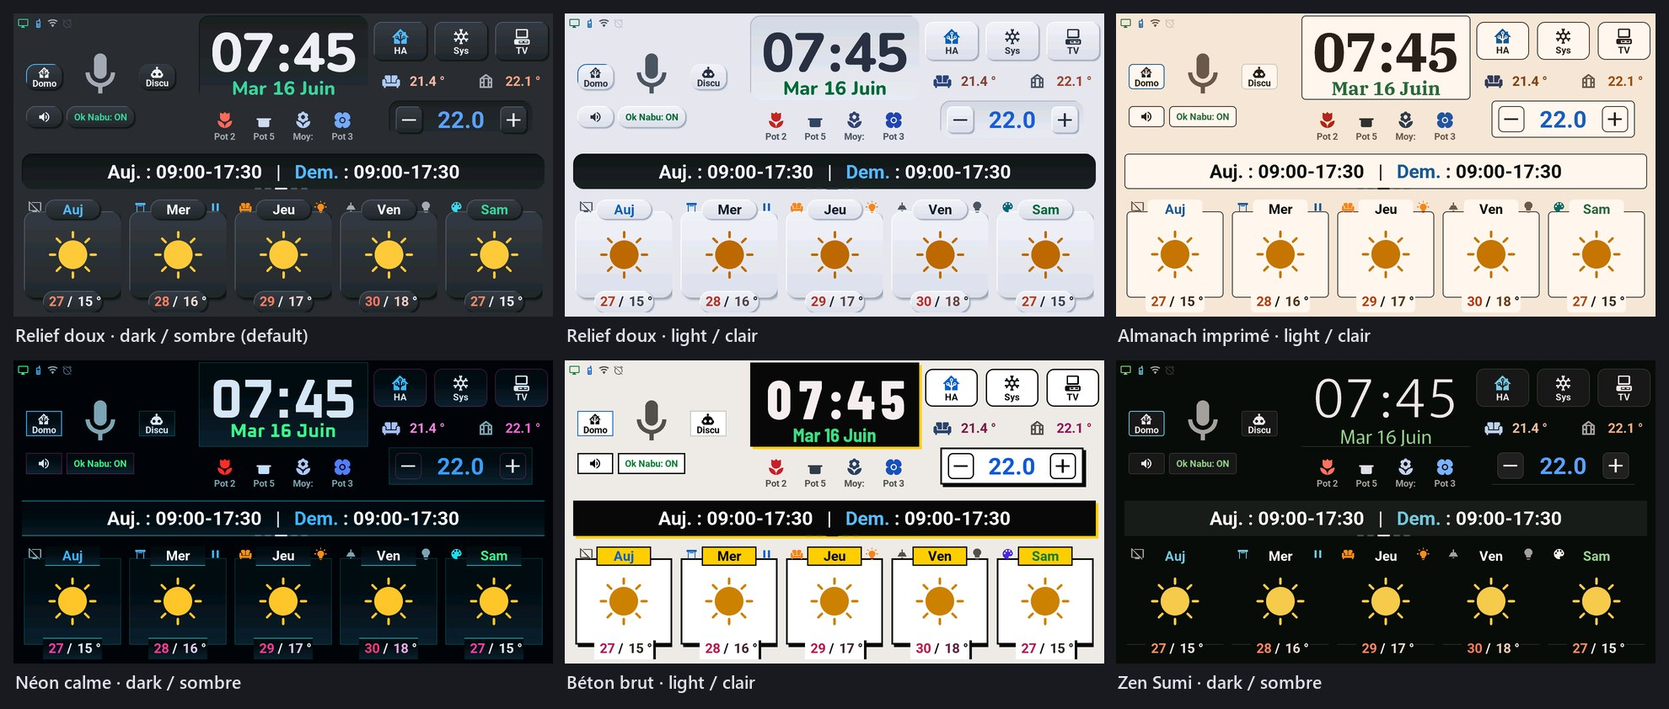
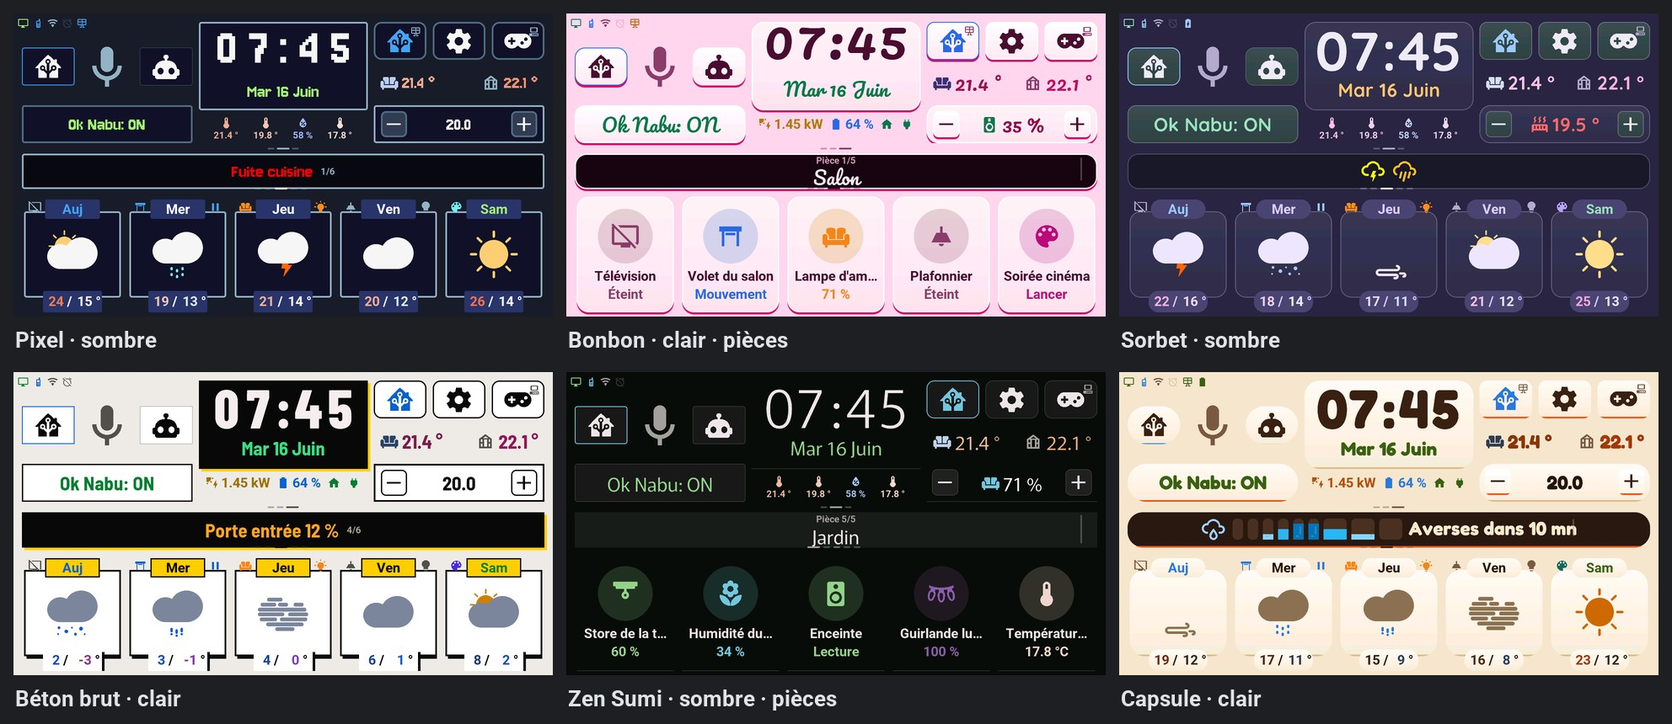
docs: photo de l'auteur et rendus du firmware dans le README et le site, HACS dans le dépannage (#377)
* docs(images): photo de l'auteur et rendus du firmware dans le README et le site

- En-tête du README (accueil du site), haut de « Écrans » et image de partage du site :
  la photo de la tablette prise le 07/10/2026, sans métadonnées.
- Galerie du README : 18 écrans du rendu hors tablette, chacun dans un thème, en
  anglais dans la partie anglaise et en français dans la française
  (docs/images/galerie/), à la place des 12 photos de juillet.
- Tour animé refait depuis le rendu de main, un par langue (tab5_ui_tour_en/fr.webp).
- Planche de six thèmes (deux en mode pièces, quatre alertes), EN et FR, dans le
  README, « Écrans » et « Réglages ».
- « Écrans » : photos de juillet remplacées par les rendus de la notice ; les trois
  jeux montrés aussi en anglais. Les anciennes photos restent pour le kit de presse.

* docs(hacs): « Dépôt introuvable » et boîte vide dans le dépannage, CHANGELOG

Nouvel incident (EN/FR) : HACS vérifie le dépôt sur sa dernière release complète
(refusé avant la 3.7.0, essayé le 07/10 avec la 3.6.0) ; au premier passage par le
lien, la boîte de HACS peut s'afficher sans texte (HACS 2.0.5) : recharger. Renvoi
depuis l'étape 2 de « Avec HACS ». Entrée du CHANGELOG pour les images et HACS.

---------

diff --git a/README.md b/README.md
@@ -23,7 +23,7 @@
 
 **A Home Assistant wall screen that runs natively on the M5Stack Tab5 (ESP32-P4).** No browser, no polling: Home Assistant pushes what changed, and the screen redraws only that, in C++ with LVGL. Local "Okay Nabu" wake word, 15-day forecast, climate, lights, plants, solar energy, TV remote, alarm clock — and 8 offline games, in seven languages. Twenty-one themes, light or dark, chosen from Home Assistant. It is my everyday screen, shared in case it is useful to someone.
 
-![The author's M5Stack Tab5 on a stand, showing a Home Assistant screen with the time, a climate setpoint, work hours and a 5-day weather forecast](docs/images/tab5_hero_4x3.jpg)
+![The author's M5Stack Tab5 held in one hand on its stand, screen in French: the time, two temperatures, a climate setpoint, the work-hours banner and a 5-day forecast with thunderstorm, rain and sun](docs/images/tab5_hero_4x3.jpg)
 
 **[Install from the browser](https://axellum.github.io/M5-Tab5-ESPHome-LVGL/install/)** · **[Installation guide](docs/installation/README.md)** · **[User manual](docs/notice/README.md)** · **[Try it without Home Assistant](docs/demo_mode.md)** · **[Discussions](https://github.com/Axellum/M5-Tab5-ESPHome-LVGL/discussions)**
 
@@ -110,13 +110,13 @@ Just want to see it running first? The [demo mode](docs/demo_mode.md) pushes dem
 
 ## See it in action
 
-**[▶ Demo video on YouTube](https://www.youtube.com/watch?v=ygNhgtMffu4)** (voice, touch, TV remote, climate — provisional cut, July 2026), and an animated tour of the screens:
+**[▶ Demo video on YouTube](https://www.youtube.com/watch?v=ygNhgtMffu4)** (voice, touch, TV remote, climate — provisional cut, July 2026), and an animated tour of the screens in the default theme, drawn by the firmware itself on a PC with demo data:
 
-![Animated tour of the M5Stack Tab5 Home Assistant screen: home, devices, plants, climate, lights, TV remote and console](docs/images/tab5_ui_tour_hq.webp)
+![Animated tour of the M5Stack Tab5 Home Assistant screen: home, a room's devices, the whole house, the quick-action wheel, lights, climate, plants, solar energy, calendar, TV remote and console](docs/images/tab5_ui_tour_en.webp)
 
-**Twenty-one themes**, each light or dark: colours, shapes (radius, borders, shadows) and the fonts of the clock, the date and the titles. Six of them, drawn by the firmware itself on a PC, with demo data:
+**Twenty-one themes**, each light or dark: colours, shapes (radius, borders, shadows) and the fonts of the clock, the date and the titles. Six of them on the home screen, drawn by the firmware itself on a PC with demo data: two show a room's devices, the four others a different alert on the central card.
 
-![Six themes of the M5Stack Tab5 screen drawn by the firmware: Relief doux in dark and light, Almanach imprimé, Néon calme, Béton brut and Zen Sumi](docs/images/tab5_themes.jpg)
+![Six themes of the M5Stack Tab5 home screen drawn by the firmware: Pixel dark with a kitchen leak alert, Bonbon light with the living room's devices, Sorbet dark with a weather warning, Béton brut light with a low battery alert, Zen Sumi dark with the garden's devices and Capsule light with rain in 10 minutes](docs/images/tab5_themes_en.jpg)
 
 **Solar energy** (optional): solar, home, grid and home battery right now, and the production of the last 30 days, from the sensors picked in the blueprint ([solar energy](docs/installation/adapt-to-your-home.md#solar-energy-optional)). Render with demo data; not tried with a real solar installation yet.
 
@@ -126,31 +126,43 @@ Just want to see it running first? The [demo mode](docs/demo_mode.md) pushes dem
 
 ![Tab5 view of the Home Assistant dashboard: brightness, volume and screen of the tablet, alarm clock, appointments and voice assistant](docs/images/ha_tableau_tab5.png)
 
-**On the tablet** — photos of the author's tablet (July 2026, French interface):
+**Every screen, each in a different theme** — drawn by the firmware itself on a PC, with demo data; the games stay dark whatever the theme:
 
-| Device buttons, one tap each | Plant sensors |
+| Home: rain in the next hour (Bento, light) | The whole house (Relief doux, light) |
 |:-:|:-:|
-| <img src="docs/images/tab5_photo_domo.jpg" width="400" loading="lazy" alt="M5Stack Tab5 Home Assistant screen with buttons for a desk PC, a roller shutter, bedroom and living-room lights and LEDs"> | <img src="docs/images/tab5_photo_plants.jpg" width="400" loading="lazy" alt="M5Stack Tab5 popup with five BLE plant sensors: soil moisture, fertility, light, temperature and battery"> |
+| <img src="docs/images/galerie/accueil-pluie-en.webp" width="400" loading="lazy" alt="M5Stack Tab5 home screen in the Bento light theme: the rain bars of the next hour and Moderate rain in 10 min on the central card, a rainy 5-day forecast"> | <img src="docs/images/galerie/maison-en.webp" width="400" loading="lazy" alt="House popup of the M5Stack Tab5: five rooms in columns, each device with its state, and a Lights off button"> |
 
-| Climate | Lights |
+| Quick-action wheel (Néon calme, dark) | Lights (Bonbon, light) |
 |:-:|:-:|
-| <img src="docs/images/tab5_photo_climate_popup_v2.jpg" width="400" loading="lazy" alt="M5Stack Tab5 climate popup with modes, a thermostat arc set to 23 °C, presets and airflow options"> | <img src="docs/images/tab5_photo_light_popup_v2.jpg" width="400" loading="lazy" alt="M5Stack Tab5 light popup with a light selector, a brightness arc at 100 % and colour swatches"> |
+| <img src="docs/images/galerie/roue-en.webp" width="400" loading="lazy" alt="Quick-action wheel of the M5Stack Tab5 opened by a long press on a lamp: brightness steps, power and more around the finger"> | <img src="docs/images/galerie/lumieres-en.webp" width="400" loading="lazy" alt="Light popup of the M5Stack Tab5: the room's lights, a brightness arc with shortcuts, 3 whites and 12 colours"> |
 
-| TV remote | Diagnostics console |
+| Climate (Platine et or, dark) | Shutters (Terre cuite, light) |
 |:-:|:-:|
-| <img src="docs/images/tab5_photo_tv_remote.jpg" width="400" loading="lazy" alt="M5Stack Tab5 showing a Samsung TV remote with power, source, direction pad, volume and playback buttons"> | <img src="docs/images/tab5_photo_console_v2.jpg" width="400" loading="lazy" alt="M5Stack Tab5 diagnostics console with memory, Wi-Fi, uptime, CPU temperature and Home Assistant actions"> |
+| <img src="docs/images/galerie/climatisation-en.webp" width="400" loading="lazy" alt="Climate popup of the M5Stack Tab5: modes, a thermostat arc set to 20 °C, presets, fan speed and airflow"> | <img src="docs/images/galerie/volet-en.webp" width="400" loading="lazy" alt="Shutter popup of the M5Stack Tab5: the shutter drawn at 45 % while it moves, with Open, Stop and Close"> |
 
-| Monthly calendar | Voice assistant |
+| Plant sensors (Sorbet, light) | Solar energy (Ultraviolet, dark) |
 |:-:|:-:|
-| <img src="docs/images/tab5_photo_calendar.jpg" width="400" loading="lazy" alt="M5Stack Tab5 monthly calendar with work hours, public holidays, school holidays and appointments"> | <img src="docs/images/tab5_photo_assistant_popup.jpg" width="400" loading="lazy" alt="M5Stack Tab5 voice assistant popup showing the spoken request and a formatted reply"> |
+| <img src="docs/images/galerie/plantes-en.webp" width="400" loading="lazy" alt="Plants popup of the M5Stack Tab5: five pots with soil moisture, fertility, light, temperature and battery, one of them needs water"> | <img src="docs/images/galerie/energie-en.webp" width="400" loading="lazy" alt="Energy popup of the M5Stack Tab5: solar, home, grid and battery cards, and the solar production of the last 30 days as bars"> |
 
-| Arcade: the game menu | Roi Noir: chess with an engine on the tablet |
+| Temperature history (Almanach imprimé, light) | Monthly calendar (Zen Sumi, dark) |
 |:-:|:-:|
-| <img src="docs/images/tab5_photo_arcade_selector.jpg" width="400" loading="lazy" alt="M5Stack Tab5 arcade menu with eight offline games drawn with LVGL"> | <img src="docs/images/tab5_photo_chess.jpg" width="400" loading="lazy" alt="Chess game Roi Noir running on the M5Stack Tab5 ESP32-P4 with its embedded engine"> |
+| <img src="docs/images/galerie/temperature-en.webp" width="400" loading="lazy" alt="Temperature popup of the M5Stack Tab5: now, minimum, maximum and outdoor forecast, and the greenhouse curve over 7 days with the forecast"> | <img src="docs/images/galerie/calendrier-en.webp" width="400" loading="lazy" alt="Monthly calendar of the M5Stack Tab5 with work hours, a public holiday, school holidays, appointments and birthdays"> |
+
+| Alarm clock (Graphite, dark) | Voice assistant (Obsidienne, dark) |
+|:-:|:-:|
+| <img src="docs/images/galerie/reveil-en.webp" width="400" loading="lazy" alt="Alarm clock popup of the M5Stack Tab5: a fixed time, the days, the mode, the ringtone and its volume, snooze and the next appointment"> | <img src="docs/images/galerie/assistant-en.webp" width="400" loading="lazy" alt="Voice assistant popup of the M5Stack Tab5: its settings, the request and a formatted reply with a list and a table"> |
+
+| TV remote (Signalisation, light) | Settings (Capsule, light) |
+|:-:|:-:|
+| <img src="docs/images/galerie/telecommande-tv-en.webp" width="400" loading="lazy" alt="TV remote of the M5Stack Tab5: power, source, menu, a direction pad, volume, playback and app shortcuts"> | <img src="docs/images/galerie/reglages-en.webp" width="400" loading="lazy" alt="Settings popup of the M5Stack Tab5: brightness, auto screen off, wake options, theme, light or dark, night mode and language"> |
+
+| Arcade: the game menu (Pixel, dark) | Roi Noir: chess with an engine on the tablet |
+|:-:|:-:|
+| <img src="docs/images/galerie/arcade-en.webp" width="400" loading="lazy" alt="Arcade menu of the M5Stack Tab5 with eight offline games drawn with LVGL"> | <img src="docs/images/galerie/roi-noir-en.webp" width="400" loading="lazy" alt="Chess game Roi Noir on the M5Stack Tab5 ESP32-P4, with its embedded engine"> |
 
 | Coureur d'Or: Lode Runner style | Arcanoïde: a breakout played by tilting |
 |:-:|:-:|
-| <img src="docs/images/tab5_photo_lode_runner.jpg" width="400" loading="lazy" alt="Coureur d'Or, a Lode Runner style platform game, running on the M5Stack Tab5"> | <img src="docs/images/tab5_photo_arkanoid.jpg" width="400" loading="lazy" alt="Arcanoïde, a breakout game on the M5Stack Tab5, played by tilting the tablet"> |
+| <img src="docs/images/galerie/coureur-dor-en.webp" width="400" loading="lazy" alt="Coureur d'Or, a Lode Runner style platform game, on the M5Stack Tab5"> | <img src="docs/images/galerie/arcanoide-en.webp" width="400" loading="lazy" alt="Arcanoïde, a breakout game on the M5Stack Tab5, played by tilting the tablet"> |
 
 The games are experimental, first-pass code written by AI to see what LVGL and C++ can do on an ESP32-P4: they work, they are not polished ([the eight consoles](docs/arcade.md), in French).
 
@@ -197,7 +209,7 @@ If something in the code is weird, it might be an AI quirk. If something works s
 
 **Un écran mural Home Assistant qui tourne nativement sur le M5Stack Tab5 (ESP32-P4).** Pas de navigateur, pas de polling : Home Assistant pousse ce qui a changé, et l'écran ne redessine que ça, en C++ avec LVGL. Mot d'activation « Okay Nabu » en local, prévisions à 15 jours, clim, lumières, plantes, énergie solaire, télécommande TV, réveil — et 8 jeux hors ligne, en sept langues. Vingt et un thèmes, clairs ou sombres, au choix depuis Home Assistant. C'est mon écran de tous les jours, partagé au cas où il serve à quelqu'un.
 
-![La M5Stack Tab5 de l'auteur sur son support, avec un écran Home Assistant : l'heure, la consigne de la clim, les horaires de travail et les prévisions à 5 jours](docs/images/tab5_hero_4x3.jpg)
+![La M5Stack Tab5 de l'auteur tenue à la main sur son socle : l'heure, deux températures, la consigne de la clim, le bandeau des horaires de travail et les prévisions à 5 jours avec orage, pluie et soleil](docs/images/tab5_hero_4x3.jpg)
 
 **[Installer depuis le navigateur](https://axellum.github.io/M5-Tab5-ESPHome-LVGL/install/)** · **[Guide d'installation](docs/installation/README.md#version-française)** · **[Notice d'utilisation](docs/notice/README.md#version-française)** · **[Essayer sans Home Assistant](docs/demo_mode.md#version-française)** · **[Discussions](https://github.com/Axellum/M5-Tab5-ESPHome-LVGL/discussions)**
 
@@ -284,13 +296,13 @@ Envie de le voir tourner d'abord ? Le [mode démo](docs/demo_mode.md#version-fra
 
 ## En images
 
-**[▶ Vidéo de démo sur YouTube](https://www.youtube.com/watch?v=ygNhgtMffu4)** (voix, tactile, télécommande TV, clim — version provisoire, juillet 2026), et un tour animé des écrans :
+**[▶ Vidéo de démo sur YouTube](https://www.youtube.com/watch?v=ygNhgtMffu4)** (voix, tactile, télécommande TV, clim — version provisoire, juillet 2026), et un tour animé des écrans dans le thème par défaut, dessinés par le firmware lui-même sur un PC, avec des données de démonstration :
 
-![Tour animé de l'écran Home Assistant de la M5Stack Tab5 : accueil, appareils, plantes, clim, lumières, télécommande TV et console](docs/images/tab5_ui_tour_hq.webp)
+![Tour animé de l'écran Home Assistant de la M5Stack Tab5 : accueil, appareils d'une pièce, toute la maison, roue d'actions, lumières, clim, plantes, énergie solaire, calendrier, télécommande TV et console](docs/images/tab5_ui_tour_fr.webp)
 
-**Vingt et un thèmes**, chacun clair ou sombre : couleurs, formes (rayons, bordures, ombres) et polices de l'heure, de la date et des titres. Six d'entre eux, dessinés par le firmware lui-même sur un PC, avec des données de démonstration :
+**Vingt et un thèmes**, chacun clair ou sombre : couleurs, formes (rayons, bordures, ombres) et polices de l'heure, de la date et des titres. Six d'entre eux sur l'accueil, dessinés par le firmware lui-même sur un PC, avec des données de démonstration : deux montrent les appareils d'une pièce, les quatre autres une alerte différente sur la carte centrale.
 
-![Six thèmes de l'écran de la M5Stack Tab5 dessinés par le firmware : Relief doux en sombre et en clair, Almanach imprimé, Néon calme, Béton brut et Zen Sumi](docs/images/tab5_themes.jpg)
+![Six thèmes de l'accueil de la M5Stack Tab5 dessinés par le firmware : Pixel sombre avec une alerte de fuite en cuisine, Bonbon clair avec les appareils du salon, Sorbet sombre avec une vigilance météo, Béton brut clair avec une alerte de pile faible, Zen Sumi sombre avec les appareils du jardin et Capsule clair avec de la pluie dans 10 minutes](docs/images/tab5_themes.jpg)
 
 **Énergie solaire** (facultatif) : solaire, maison, réseau et batterie de la maison en direct, et la production des 30 derniers jours, d'après les capteurs choisis dans le blueprint ([énergie solaire](docs/installation/adapt-to-your-home.md#énergie-solaire-facultatif)). Rendu avec des données de démonstration ; pas encore essayé avec une vraie installation solaire.
 
@@ -300,31 +312,43 @@ Envie de le voir tourner d'abord ? Le [mode démo](docs/demo_mode.md#version-fra
 
 ![Vue Tab5 du tableau de bord de Home Assistant : luminosité, volume et écran de la tablette, réveil, rendez-vous et assistant vocal](docs/images/ha_tableau_tab5.png)
 
-**Sur la tablette** — photos de la tablette de l'auteur (juillet 2026) :
+**Chaque écran dans un thème différent** — dessinés par le firmware lui-même sur un PC, avec des données de démonstration ; les jeux restent sombres quel que soit le thème :
 
-| Les boutons des appareils, un appui chacun | Capteurs de plantes |
+| Accueil : la pluie dans l'heure (Bento, clair) | Toute la maison (Relief doux, clair) |
 |:-:|:-:|
-| <img src="docs/images/tab5_photo_domo.jpg" width="400" loading="lazy" alt="Écran Home Assistant de la M5Stack Tab5 avec les boutons d'un PC de bureau, d'un volet roulant, des lumières de la chambre et du salon et de LED"> | <img src="docs/images/tab5_photo_plants.jpg" width="400" loading="lazy" alt="Popup de la M5Stack Tab5 avec cinq capteurs de plantes BLE : humidité du sol, fertilité, lumière, température et batterie"> |
+| <img src="docs/images/galerie/accueil-pluie-fr.webp" width="400" loading="lazy" alt="Accueil de la M5Stack Tab5 dans le thème Bento clair : les barres de pluie de l'heure à venir et « Pluie modérée dans 10 mn » sur la carte centrale, prévisions à 5 jours pluvieuses"> | <img src="docs/images/galerie/maison-fr.webp" width="400" loading="lazy" alt="Popup Maison de la M5Stack Tab5 : cinq pièces en colonnes, chaque appareil avec son état, et un bouton pour tout éteindre"> |
 
-| Clim | Lumières |
+| Roue d'actions (Néon calme, sombre) | Lumières (Bonbon, clair) |
 |:-:|:-:|
-| <img src="docs/images/tab5_photo_climate_popup_v2.jpg" width="400" loading="lazy" alt="Popup clim de la M5Stack Tab5 : modes, arc de thermostat réglé à 23 °C, préréglages et flux d'air"> | <img src="docs/images/tab5_photo_light_popup_v2.jpg" width="400" loading="lazy" alt="Popup lumières de la M5Stack Tab5 : choix de la lumière, arc de luminosité à 100 % et pastilles de couleur"> |
+| <img src="docs/images/galerie/roue-fr.webp" width="400" loading="lazy" alt="Roue d'actions de la M5Stack Tab5 ouverte par un appui long sur une lampe : paliers de luminosité, marche-arrêt et plus, autour du doigt"> | <img src="docs/images/galerie/lumieres-fr.webp" width="400" loading="lazy" alt="Popup lumières de la M5Stack Tab5 : les lumières de la pièce, un arc de luminosité avec raccourcis, 3 blancs et 12 couleurs"> |
 
-| Télécommande TV | Console de diagnostic |
+| Clim (Platine et or, sombre) | Volets (Terre cuite, clair) |
 |:-:|:-:|
-| <img src="docs/images/tab5_photo_tv_remote.jpg" width="400" loading="lazy" alt="Télécommande TV Samsung sur la M5Stack Tab5 : marche, source, croix, volume et lecture"> | <img src="docs/images/tab5_photo_console_v2.jpg" width="400" loading="lazy" alt="Console de diagnostic de la M5Stack Tab5 : mémoire, Wi-Fi, temps de marche, température du processeur et actions Home Assistant"> |
+| <img src="docs/images/galerie/climatisation-fr.webp" width="400" loading="lazy" alt="Popup clim de la M5Stack Tab5 : modes, arc de thermostat réglé à 20 °C, préréglages, ventilation et flux d'air"> | <img src="docs/images/galerie/volet-fr.webp" width="400" loading="lazy" alt="Popup volet de la M5Stack Tab5 : le volet dessiné à 45 % pendant qu'il bouge, avec Ouvrir, Stop et Fermer"> |
 
-| Calendrier du mois | Assistant vocal |
+| Capteurs de plantes (Sorbet, clair) | Énergie solaire (Ultraviolet, sombre) |
 |:-:|:-:|
-| <img src="docs/images/tab5_photo_calendar.jpg" width="400" loading="lazy" alt="Calendrier du mois de la M5Stack Tab5 avec horaires de travail, jours fériés, vacances scolaires et rendez-vous"> | <img src="docs/images/tab5_photo_assistant_popup.jpg" width="400" loading="lazy" alt="Popup de l'assistant vocal de la M5Stack Tab5 : la demande dite à voix haute et une réponse mise en forme"> |
+| <img src="docs/images/galerie/plantes-fr.webp" width="400" loading="lazy" alt="Popup plantes de la M5Stack Tab5 : cinq pots avec humidité du sol, fertilité, lumière, température et batterie, l'un d'eux a soif"> | <img src="docs/images/galerie/energie-fr.webp" width="400" loading="lazy" alt="Popup Énergie de la M5Stack Tab5 : solaire, maison, réseau et batterie en direct, et la production solaire des 30 derniers jours en barres"> |
 
-| Arcade : le menu des jeux | Roi Noir : des échecs avec un moteur sur la tablette |
+| Historique des températures (Almanach imprimé, clair) | Calendrier du mois (Zen Sumi, sombre) |
 |:-:|:-:|
-| <img src="docs/images/tab5_photo_arcade_selector.jpg" width="400" loading="lazy" alt="Menu Arcade de la M5Stack Tab5 avec huit jeux hors ligne dessinés avec LVGL"> | <img src="docs/images/tab5_photo_chess.jpg" width="400" loading="lazy" alt="Jeu d'échecs Roi Noir sur la M5Stack Tab5 ESP32-P4, avec son moteur embarqué"> |
+| <img src="docs/images/galerie/temperature-fr.webp" width="400" loading="lazy" alt="Popup Température de la M5Stack Tab5 : maintenant, minimum, maximum et prévision dehors, et la courbe de la serre sur 7 jours avec la prévision"> | <img src="docs/images/galerie/calendrier-fr.webp" width="400" loading="lazy" alt="Calendrier du mois de la M5Stack Tab5 avec horaires de travail, jour férié, vacances scolaires, rendez-vous et anniversaires"> |
+
+| Réveil (Graphite, sombre) | Assistant vocal (Obsidienne, sombre) |
+|:-:|:-:|
+| <img src="docs/images/galerie/reveil-fr.webp" width="400" loading="lazy" alt="Popup réveil de la M5Stack Tab5 : heure fixe, jours, mode, sonnerie et volume, répétition et prochain rendez-vous"> | <img src="docs/images/galerie/assistant-fr.webp" width="400" loading="lazy" alt="Popup de l'assistant vocal de la M5Stack Tab5 : ses réglages, la demande et une réponse mise en forme, avec une liste et un tableau"> |
+
+| Télécommande TV (Signalisation, clair) | Réglages (Capsule, clair) |
+|:-:|:-:|
+| <img src="docs/images/galerie/telecommande-tv-fr.webp" width="400" loading="lazy" alt="Télécommande TV de la M5Stack Tab5 : marche, source, menu, croix, volume, lecture et raccourcis d'applications"> | <img src="docs/images/galerie/reglages-fr.webp" width="400" loading="lazy" alt="Popup Réglages de la M5Stack Tab5 : luminosité, extinction auto, réveil de l'écran, thème, clair ou sombre, nuit et langue"> |
+
+| Arcade : le menu des jeux (Pixel, sombre) | Roi Noir : des échecs avec un moteur sur la tablette |
+|:-:|:-:|
+| <img src="docs/images/galerie/arcade-fr.webp" width="400" loading="lazy" alt="Menu Arcade de la M5Stack Tab5 avec huit jeux hors ligne dessinés avec LVGL"> | <img src="docs/images/galerie/roi-noir-fr.webp" width="400" loading="lazy" alt="Jeu d'échecs Roi Noir sur la M5Stack Tab5 ESP32-P4, avec son moteur embarqué"> |
 
 | Coureur d'Or : façon Lode Runner | Arcanoïde : un casse-briques joué en inclinant la tablette |
 |:-:|:-:|
-| <img src="docs/images/tab5_photo_lode_runner.jpg" width="400" loading="lazy" alt="Coureur d'Or, un jeu de plateformes façon Lode Runner, sur la M5Stack Tab5"> | <img src="docs/images/tab5_photo_arkanoid.jpg" width="400" loading="lazy" alt="Arcanoïde, un casse-briques sur la M5Stack Tab5, joué en inclinant la tablette"> |
+| <img src="docs/images/galerie/coureur-dor-fr.webp" width="400" loading="lazy" alt="Coureur d'Or, un jeu de plateformes façon Lode Runner, sur la M5Stack Tab5"> | <img src="docs/images/galerie/arcanoide-fr.webp" width="400" loading="lazy" alt="Arcanoïde, un casse-briques sur la M5Stack Tab5, joué en inclinant la tablette"> |
 
 Les jeux sont expérimentaux, un premier jet écrit par l'IA pour voir ce que LVGL et le C++ peuvent faire sur un ESP32-P4 : ils marchent, sans être finis ([les huit consoles](docs/arcade.md)).
 

diff --git a/docs/installation/home-assistant-files.md b/docs/installation/home-assistant-files.md
@@ -13,7 +13,7 @@ Two ways to put them in place: [with HACS](#with-hacs), which then updates them 
 From release 3.7.0, the files also come with a small integration, « Tab5 », that [HACS](https://hacs.xyz) installs ([ADR-0035](../decisions/0035-hacs-integration-ha-files.md)). HACS must already be installed. HACS offers full releases only: pre-releases (Beta channel) only if beta versions are switched on for this repository in HACS.
 
 1. Add the `packages:` line of [step 2](#2-one-line-in-configurationyaml) to `configuration.yaml`, if it is not there yet.
-2. **[Open Tab5 in HACS](https://my.home-assistant.io/redirect/hacs_repository/?owner=Axellum&repository=M5-Tab5-ESPHome-LVGL&category=integration)**: the link goes through My Home Assistant, which asks for your Home Assistant address the first time, then HACS offers to add the repository: *Add*. Without the link: *⋮ (top right) → Custom repositories*, repository `https://github.com/Axellum/M5-Tab5-ESPHome-LVGL`, type **Integration**, *Add*, then search for **Tab5** in HACS and open it.
+2. **[Open Tab5 in HACS](https://my.home-assistant.io/redirect/hacs_repository/?owner=Axellum&repository=M5-Tab5-ESPHome-LVGL&category=integration)**: the link goes through My Home Assistant, which asks for your Home Assistant address the first time, then HACS offers to add the repository: *Add* (a box with a title only: reload the page, [troubleshooting](../troubleshooting.md#adding-tab5-to-hacs--repository-not-found--or-an-empty-box-2026-10-07)). Without the link: *⋮ (top right) → Custom repositories*, repository `https://github.com/Axellum/M5-Tab5-ESPHome-LVGL`, type **Integration**, *Add*, then search for **Tab5** in HACS and open it.
 3. On the Tab5 page of HACS, *Download*.
 4. **Restart** Home Assistant.
 5. *Settings → Devices & services → Add integration → Tab5*. Leave « Then update the tablet » ticked to have the firmware of the same version installed after the files, at each release ([updates](updates.md#home-assistant-files)).
@@ -79,7 +79,7 @@ Deux façons de les mettre en place : [avec HACS](#avec-hacs), qui les met ensui
 Depuis la release 3.7.0, les fichiers viennent aussi avec une petite intégration, « Tab5 », que [HACS](https://hacs.xyz) installe ([ADR-0035](../decisions/0035-hacs-integration-ha-files.md)). HACS doit déjà être installé. HACS ne propose que les releases complètes : les pré-releases (canal Bêta) seulement si les versions bêta sont activées pour ce dépôt dans HACS.
 
 1. Ajoutez la ligne `packages:` de l'[étape 2](#2-une-ligne-dans-configurationyaml) à `configuration.yaml`, si elle n'y est pas déjà.
-2. **[Ouvrir Tab5 dans HACS](https://my.home-assistant.io/redirect/hacs_repository/?owner=Axellum&repository=M5-Tab5-ESPHome-LVGL&category=integration)** : le lien passe par My Home Assistant, qui demande l'adresse de votre Home Assistant la première fois, puis HACS propose d'ajouter le dépôt : *Add* (ajouter). Sans le lien : *⋮ (en haut à droite) → Custom repositories* (dépôts personnalisés), dépôt `https://github.com/Axellum/M5-Tab5-ESPHome-LVGL`, type **Integration**, *Add*, puis cherchez **Tab5** dans HACS et ouvrez-le.
+2. **[Ouvrir Tab5 dans HACS](https://my.home-assistant.io/redirect/hacs_repository/?owner=Axellum&repository=M5-Tab5-ESPHome-LVGL&category=integration)** : le lien passe par My Home Assistant, qui demande l'adresse de votre Home Assistant la première fois, puis HACS propose d'ajouter le dépôt : *Add* (ajouter ; une boîte avec un titre seul : rechargez la page, [incidents connus](../troubleshooting.md#ajout-de-tab5-dans-hacs---dépôt-introuvable--ou-une-boîte-vide-07102026)). Sans le lien : *⋮ (en haut à droite) → Custom repositories* (dépôts personnalisés), dépôt `https://github.com/Axellum/M5-Tab5-ESPHome-LVGL`, type **Integration**, *Add*, puis cherchez **Tab5** dans HACS et ouvrez-le.
 3. Sur la page de Tab5 dans HACS, *Download* (télécharger).
 4. **Redémarrez** Home Assistant.
 5. *Paramètres → Appareils et services → Ajouter une intégration → Tab5*. Laissez « Mettre ensuite la tablette à jour » coché pour que le firmware de la même version s'installe après les fichiers, à chaque release ([mises à jour](updates.md#fichiers-home-assistant)).

diff --git a/docs/troubleshooting.md b/docs/troubleshooting.md
@@ -153,6 +153,16 @@ Those three lines repeat ~50 times per second. The black screen is a *consequenc
 
 ---
 
+### Adding Tab5 to HACS: « Repository not found », or an empty box (2026-10-07)
+
+**Symptom:** adding the repository to HACS, by the « Open Tab5 in HACS » link or by *Custom repositories*, fails with « Repository not found » (« Dépôt introuvable » in French). Or the box that HACS opens through the link shows a title only (« Confirm? »), with no text.
+
+**Root cause:** HACS checks a repository on its latest full release, even with beta versions switched on, and only the releases from 3.7.0 on carry the integration: before 3.7.0 was published (7 October 2026), HACS refused this repository (tried that day with 3.6.0 as the latest full release). The empty box comes from HACS: on a first load through the link, its texts are not loaded yet (seen with HACS 2.0.5).
+
+**Fix:** « Repository not found »: check on the [releases page](https://github.com/Axellum/M5-Tab5-ESPHome-LVGL/releases) that the release marked *Latest* is 3.7.0 or later, and, when adding it by hand, that the type is **Integration**; then try again. Empty box: reload the page, the box comes back with its texts, *Add* on the right. Without HACS, the archive copied by hand works as before ([steps 1 to 3](installation/home-assistant-files.md#1-download-and-unzip)).
+
+---
+
 ### Tab5 integration (HACS): a message in Repairs
 
 **Symptom:** after an update of the « Tab5 — fichiers HA · HA files » integration and a restart, *Settings → Repairs* shows a message whose title starts with « Tab5 ».
@@ -296,6 +306,14 @@ Ces trois lignes se répètent ~50 fois par seconde. L'écran noir est une *cons
 **Cause racine :** pas un plantage. Le firmware ne gère pas le bouton d'alimentation : c'est le matériel qui réinitialise la puce, et `esp_reset_reason()` lit `ESP_RST_WDT`, une raison que le journal comptait comme un plantage. Pour cette raison, le composant `debug` d'ESPHome affiche la source enregistrée par le dernier redémarrage *demandé* (`components/debug/debug_esp32.cpp`), qu'il n'efface jamais : un texte périmé.
 
 **Correctif (firmware après la 3.7.0-rc.3, et `packages/tab5_health.yaml`) :** un reset du chien de garde sans rapport de plantage est un démarrage normal : « bouton d'alimentation ou chien de garde RTC (rst 0x..) » dans le journal, aucun événement envoyé ; `Power button or RTC watchdog (rst 0x..)` dans l'entité, que la garde « reboot inattendu » laisse passer. Mettre à jour le firmware ET les fichiers HA : avec le nouveau firmware seul, l'ancienne garde alerterait sur le nouveau texte. Un chien de garde avec rapport de plantage alerte toujours. Détail dans [`debugging.md`](debugging.md#version-française).
+
+### Ajout de Tab5 dans HACS : « Dépôt introuvable », ou une boîte vide (07/10/2026)
+
+**Symptôme :** l'ajout du dépôt dans HACS, par le lien « Ouvrir Tab5 dans HACS » ou par *Custom repositories*, échoue avec « Dépôt introuvable » (« Repository not found » en anglais). Ou la boîte que HACS ouvre par le lien n'affiche qu'un titre (« Confirmer ? »), sans texte.
+
+**Cause racine :** HACS vérifie un dépôt sur sa dernière release complète, même avec les versions bêta activées, et seules les releases depuis la 3.7.0 portent l'intégration : avant la publication de la 3.7.0 (7 octobre 2026), HACS refusait ce dépôt (essayé ce jour-là, avec la 3.6.0 comme dernière release complète). La boîte vide vient de HACS : au premier chargement par le lien, ses textes ne sont pas encore chargés (vu avec HACS 2.0.5).
+
+**Correctif :** « Dépôt introuvable » : vérifier sur la [page des releases](https://github.com/Axellum/M5-Tab5-ESPHome-LVGL/releases) que la release marquée *Latest* est la 3.7.0 ou plus récente et, pour un ajout à la main, que le type est **Integration** ; puis réessayer. Boîte vide : recharger la page, la boîte revient avec ses textes, *Ajouter* à droite. Sans HACS, l'archive copiée à la main marche comme avant ([étapes 1 à 3](installation/home-assistant-files.md#1-télécharger-et-décompresser)).
 
 ### Intégration Tab5 (HACS) : un message dans Réparations
 

diff --git a/CHANGELOG.md b/CHANGELOG.md
@@ -4,6 +4,29 @@ Format based on [Keep a Changelog](https://keepachangelog.com/en/1.1.0/). Dates 
 
 ## [Unreleased]
 
+### 2026-10-07 — Images du README et du site, HACS dans le dépannage
+
+- **Photo d'en-tête** : la photo de la tablette de l'auteur, prise le 07/10/2026 (sans
+  métadonnées), remplace celle de juillet en tête du README (donc de l'accueil du site), en haut de
+  « Écrans » et dans l'image de partage du site (`tab5_social_preview.jpg`).
+- **Galerie du README** : les 12 photos de juillet (interface d'alors, en français même dans la
+  partie anglaise) laissent la place à 18 écrans dessinés par le firmware lui-même sur un PC
+  (rendu hors tablette, données de démonstration), chacun dans un autre thème, en anglais dans la
+  partie anglaise et en français dans la française (`docs/images/galerie/`).
+- **Tour animé** : refait depuis le rendu de `main` (thème par défaut), 11 écrans dont la maison,
+  la roue d'actions et l'énergie, un par langue (`tab5_ui_tour_en.webp`, `tab5_ui_tour_fr.webp`).
+- **Planche des thèmes** : six accueils (Pixel, Bonbon, Sorbet, Béton brut, Zen Sumi, Capsule),
+  deux en mode pièces, quatre avec une alerte différente sur la carte centrale, en anglais
+  (`tab5_themes_en.jpg`) et en français (`tab5_themes.jpg`) ; README, « Écrans » et « Réglages ».
+- **« Écrans »** (`docs/screens.md`) : les photos de juillet deviennent les rendus de la notice,
+  les trois jeux montrés aussi dans la partie anglaise. Les anciennes photos restent dans
+  `docs/images/` pour le kit de presse.
+- **HACS** : nouvel incident « Ajout de Tab5 dans HACS : « Dépôt introuvable », ou une boîte
+  vide » (dernière release complète avant la 3.7.0 ; textes de HACS pas encore chargés au premier
+  passage par le lien, vu avec HACS 2.0.5), et un renvoi depuis l'étape 2 de « Avec HACS ». Ajout du
+  dépôt par le bouton essayé le 07/10 avec la 3.7.0 stable : HACS propose la v3.7.0 ;
+  téléchargement et ajout de l'intégration pas encore essayés par l'auteur.
+
 ## [3.7.0] — 2026-10-07
 
 De `v3.6.0` à aujourd'hui : quarante-neuf pull requests (#326 → #375 ; #369 est une discussion),

diff --git a/docs/installation/settings.md b/docs/installation/settings.md
@@ -24,7 +24,7 @@ Every setting of the tablet is an entity of its device in Home Assistant, and th
 
 The theme names stay as they are in every language: they are names. Six of them:
 
-![Six themes of the Tab5 screen drawn by the firmware itself: Relief doux in dark and light, Almanach imprimé, Néon calme, Béton brut and Zen Sumi](../images/tab5_themes.jpg)
+![Six themes of the Tab5 home screen drawn by the firmware itself: Pixel dark with a kitchen leak alert, Bonbon light with the living room's devices, Sorbet dark with a weather warning, Béton brut light with a low battery alert, Zen Sumi dark with the garden's devices and Capsule light with rain in 10 minutes](../images/tab5_themes_en.jpg)
 
 ## Screen, sound and network
 
@@ -102,7 +102,7 @@ Chaque réglage de la tablette est une entité de son appareil dans Home Assista
 
 Les noms des thèmes restent les mêmes dans toutes les langues : ce sont des noms. Six d'entre eux :
 
-![Six thèmes de l'écran du Tab5 dessinés par le firmware lui-même : Relief doux en sombre et en clair, Almanach imprimé, Néon calme, Béton brut et Zen Sumi](../images/tab5_themes.jpg)
+![Six thèmes de l'accueil du Tab5 dessinés par le firmware lui-même : Pixel sombre avec une alerte de fuite en cuisine, Bonbon clair avec les appareils du salon, Sorbet sombre avec une vigilance météo, Béton brut clair avec une alerte de pile faible, Zen Sumi sombre avec les appareils du jardin et Capsule clair avec de la pluie dans 10 minutes](../images/tab5_themes.jpg)
 
 ## Écran, son et réseau
 
